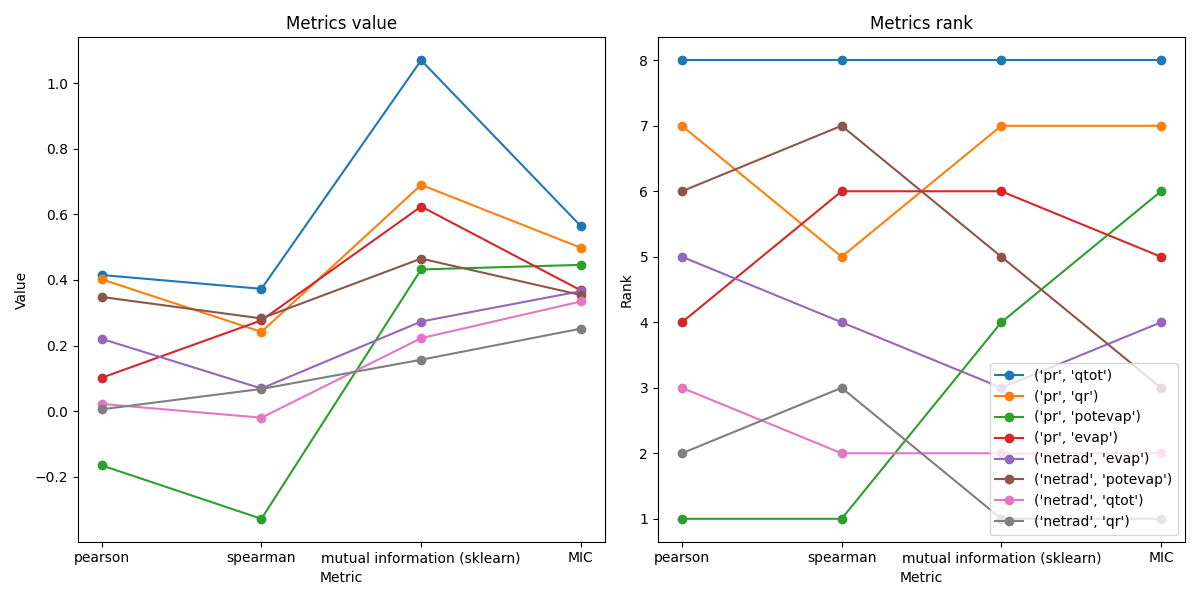
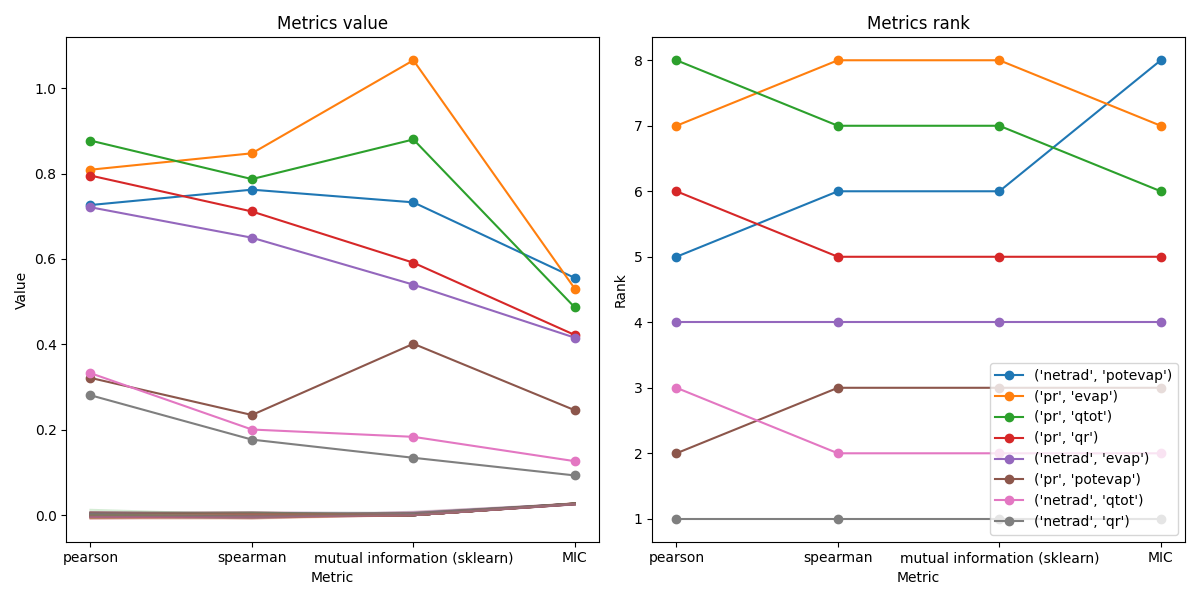
add normalized mutual information

diff --git a/src/dependence_measures/compare.py b/src/dependence_measures/compare.py
@@ -1,3 +1,5 @@
+import os
+import logging
 from typing import List
 from itertools import product
 from concurrent.futures import ProcessPoolExecutor
@@ -6,6 +8,11 @@ import pandas as pd
 from IPython.display import display
 
 from src.dependence_measures import bivariate
+from src.dependence_measures import mutual_information
+
+
+logging.basicConfig(level=logging.INFO,
+                    format="[%(asctime)s]-[%(name)s.%(funcName)s:%(lineno)d] - %(levelname)s - %(message)s") 
 
 
 def compute_scores(args):
@@ -22,8 +29,11 @@ def compute_scores(args):
     # mc_score = bivariate.maximal_correlation_SVD(df[input_col], df[output_col])
 
     # mutual information
-    mi_score = bivariate.mutual_information_sklearn(df[input_col].values.reshape(-1, 1),
-                                                    df[output_col].values)
+    mi_score = mutual_information.mutual_information_sklearn(df[input_col].values.reshape(-1, 1),
+                                                             df[output_col].values)
+    
+    # normalized
+    nmi_score = mutual_information.normalized_mutual_information(df[input_col], df[output_col])
 
     # maximal information coefficient
     mic_scores = bivariate.maximal_information_coefficient(df[input_col], df[output_col])
@@ -35,39 +45,91 @@ def compute_scores(args):
         "spearman": spearman_score,
         # "maximal correlation (SVD)": mc_score,
         "mutual information (sklearn)": mi_score,
+        "normalized mutual information": nmi_score,
         "MIC": mic_scores["MIC"],
         "MAS": mic_scores["MAS"],
         "MEV": mic_scores["MEV"],
         "MCN_general": mic_scores["MCN_general"]
     }
 
+
 def compute_bivariate_scores(df: pd.DataFrame,
                              input_cols: List[str],
-                             output_cols: List[str]) -> pd.DataFrame:
-    """Compute bivariate scores for input-output combinations
+                             output_cols: List[str],
+                             dst_file_path: str,
+                             return_all: bool) -> pd.DataFrame:
+    """Compute bivariate scores for input-output combinations, with caching.
 
     Args:
-        df (pd.DataFrame): _description_
-        input_cols (List[str]): _description_
-        output_cols (List[str]): _description_
+        df (pd.DataFrame): Input DataFrame containing the data.
+        input_cols (List[str]): List of input column names.
+        output_cols (List[str]): List of output column names.
+        dst_file_path (str): Path to the file where results are stored.
+        return_all (bool): If True, return all results; if False, return only the specified combinations.
 
     Returns:
-        pd.DataFrame: The different scores for the different combinations of inputs-outputs
+        pd.DataFrame: DataFrame containing the scores for the combinations.
     """
+    # Load existing DataFrame from dst_file_path if it exists
+    if os.path.exists(dst_file_path):
+        existing_df = pd.read_csv(dst_file_path, index_col=["input", "output"])
+        
+        logging.info(f"Loaded data found in {dst_file_path}")
+    else:
+        logging.info(f"No previous data found, starting fresh...")
+        # Create an empty DataFrame with MultiIndex for consistency
+        existing_df = pd.DataFrame()
+        existing_df.index = pd.MultiIndex(levels=[[], []], codes=[[], []], names=['input', 'output'])
+
     # Generate all combinations of input-output columns
     combinations = list(product(input_cols, output_cols))
-    args_list = [(df, input_col, output_col) for input_col, output_col in combinations]
+    combinations = set(combinations)
 
-    # Use ProcessPoolExecutor to parallelize the computation
-    with ProcessPoolExecutor(max_workers=3) as executor:
-        results = list(tqdm(executor.map(compute_scores, args_list), 
-                            total=len(combinations), desc="Computing input-output combinations"))
+    # Get existing combinations from existing_df
+    if not existing_df.empty:
+        existing_combinations = set(existing_df.index.tolist())
+    else:
+        existing_combinations = set()
 
-    # Convert the results into a DataFrame
-    records_df = pd.DataFrame.from_records(results)
-    records_df.set_index(["input", "output"], inplace=True)
+    # Compute new combinations by taking the difference
+    new_combinations = combinations - existing_combinations
 
-    return records_df
+    logging.info(f"New combinations: '{new_combinations}', existing ones: '{existing_combinations}'")
+
+    # Compute scores for new combinations
+    if new_combinations:
+        # Prepare arguments for compute_scores
+        args_list = [(df, input_col, output_col) for input_col, output_col in new_combinations]
+        # Use ProcessPoolExecutor to parallelize the computation
+        with ProcessPoolExecutor(max_workers=3) as executor:
+            results = list(tqdm(executor.map(compute_scores, args_list),
+                                total=len(new_combinations),
+                                desc="Computing new input-output combinations"))
+
+        # Convert the results into a DataFrame
+        new_records_df = pd.DataFrame.from_records(results)
+        new_records_df.set_index(["input", "output"], inplace=True)
+
+        # Concatenate new results with existing DataFrame
+        updated_df = pd.concat([existing_df, new_records_df])
+    else:
+        # No new combinations to compute
+        updated_df = existing_df
+
+    logging.info(f"Storing all data to {dst_file_path}")
+    # Store updated_df to dst_file_path
+    updated_df.to_csv(dst_file_path)
+
+    # Return the desired DataFrame
+    if return_all:
+        logging.info(f"Returning all exisitng combinations")
+        return updated_df
+    else:
+        logging.info(f"Returning only requested combinations")
+        # Filter updated_df to include only the specified combinations
+        mask = updated_df.index.isin(combinations)
+        result_df = updated_df[mask]
+        return result_df
 
 
 def compute_bivariate_scores_on_file_generator(path_rglob):

diff --git a/src/dependence_measures/mutual_information.py b/src/dependence_measures/mutual_information.py
@@ -1,0 +1,147 @@
+import numpy as np
+from scipy.stats import entropy
+from sklearn.feature_selection import mutual_info_regression
+
+
+def mutual_information_sklearn(x, y):
+    return mutual_info_regression(x, y)[0]
+
+
+def compute_histogram_counts(x, bins):
+    """
+    Computes the histogram counts for a variable.
+
+    Parameters:
+    - x: array-like, shape (n_samples,)
+        Variable data.
+    - bins: int or sequence of scalars
+        Number of bins or bin edges.
+
+    Returns:
+    - counts: ndarray
+        Counts in each bin.
+    - bin_edges: ndarray
+        Bin edges.
+    """
+    counts, bin_edges = np.histogram(x, bins=bins, density=False)
+    return counts, bin_edges
+
+def compute_joint_histogram_counts(x, y, bins_x, bins_y):
+    """
+    Computes the joint histogram counts for two variables.
+
+    Parameters:
+    - x: array-like, shape (n_samples,)
+        First variable data.
+    - y: array-like, shape (n_samples,)
+        Second variable data.
+    - bins_x: sequence of scalars
+        Bin edges for x.
+    - bins_y: sequence of scalars
+        Bin edges for y.
+
+    Returns:
+    - counts_xy: ndarray
+        Joint counts.
+    """
+    counts_xy, _, _ = np.histogram2d(x, y, bins=[bins_x, bins_y], density=False)
+    return counts_xy
+
+def compute_entropy_from_counts(counts, base=2):
+    """
+    Computes the entropy from counts.
+
+    Parameters:
+    - counts: array-like
+        Counts for each bin or event.
+    - base: float, optional
+        Logarithm base (default is 2 for bits).
+
+    Returns:
+    - H: float
+        Entropy.
+    """
+    counts = np.asarray(counts)
+    total = counts.sum()
+    probabilities = counts / total
+    # Remove zero probabilities to avoid log(0)
+    probabilities = probabilities[probabilities > 0]
+    H = entropy(probabilities, base=base)
+    return H
+
+def compute_entropies(x, y, bins=None):
+    """
+    Computes the joint entropy H(X, Y) and marginal entropies H(X), H(Y) of two variables.
+
+    Parameters:
+    - x: array-like, shape (n_samples,)
+        First variable (can be continuous or discrete).
+    - y: array-like, shape (n_samples,)
+        Second variable (can be continuous or discrete).
+    - bins: int or sequence of ints or None (optional)
+        Number of bins for discretizing continuous variables.
+        If None, defaults to the square root of the number of samples.
+
+    Returns:
+    - H_X: float
+        Entropy of X.
+    - H_Y: float
+        Entropy of Y.
+    - H_XY: float
+        Joint entropy of X and Y.
+    """
+    x = np.asarray(x)
+    y = np.asarray(y)
+
+    # Check that x and y have the same length
+    if x.shape[0] != y.shape[0]:
+        raise ValueError("x and y must have the same length.")
+
+    n_samples = x.shape[0]
+
+    # If bins is None, choose default number of bins
+    if bins is None:
+        bins = int(np.sqrt(n_samples))
+
+    # Compute counts and bin edges for x and y
+    counts_x, bin_edges_x = compute_histogram_counts(x, bins)
+    counts_y, bin_edges_y = compute_histogram_counts(y, bins)
+
+    # Compute joint counts
+    counts_xy = compute_joint_histogram_counts(x, y, bin_edges_x, bin_edges_y)
+
+    # Compute entropies from counts
+    H_X = compute_entropy_from_counts(counts_x)
+    H_Y = compute_entropy_from_counts(counts_y)
+    H_XY = compute_entropy_from_counts(counts_xy.flatten())
+
+    return H_X, H_Y, H_XY
+
+def normalized_mutual_information(x, y, bins=None):
+    """
+    Computes the normalized mutual information (NMI) between two variables x and y.
+
+    The NMI is calculated using the entropies of x, y, and their joint entropy:
+    NMI = 2 * (H(X) + H(Y) - H(X,Y)) / (H(X) + H(Y))
+
+    Parameters:
+    - x: array-like, shape (n_samples,)
+        First variable (can be continuous or discrete).
+    - y: array-like, shape (n_samples,)
+        Second variable (can be continuous or discrete).
+    - bins: int or sequence of ints or None (optional)
+        Number of bins for discretizing continuous variables.
+        If None, defaults to the square root of the number of samples.
+
+    Returns:
+    - NMI: float
+        Normalized Mutual Information between x and y.
+    """
+    H_X, H_Y, H_XY = compute_entropies(x, y, bins)
+    numerator = 2 * (H_X + H_Y - H_XY)
+    denominator = H_X + H_Y
+    if denominator == 0:
+        NMI = 0.0  # Avoid division by zero; define NMI as zero when entropies sum to zero
+    else:
+        NMI = numerator / denominator
+    return NMI

diff --git a/src/dependence_measures/bivariate.py b/src/dependence_measures/bivariate.py
@@ -2,7 +2,6 @@ from typing import Dict
 import math
 import numpy as np
 from scipy import stats
-from sklearn.feature_selection import mutual_info_regression
 from sklearn.metrics import r2_score
 from minepy import MINE
 
@@ -58,10 +57,6 @@ def maximal_correlation_SVD(x, y,
     U, S, V = np.linalg.svd(B)
 
     return S[1]
-
-
-def mutual_information_sklearn(x, y):
-    return mutual_info_regression(x, y)[0]
 
 
 def maximal_information_coefficient(x, y) -> Dict[str, float]:
